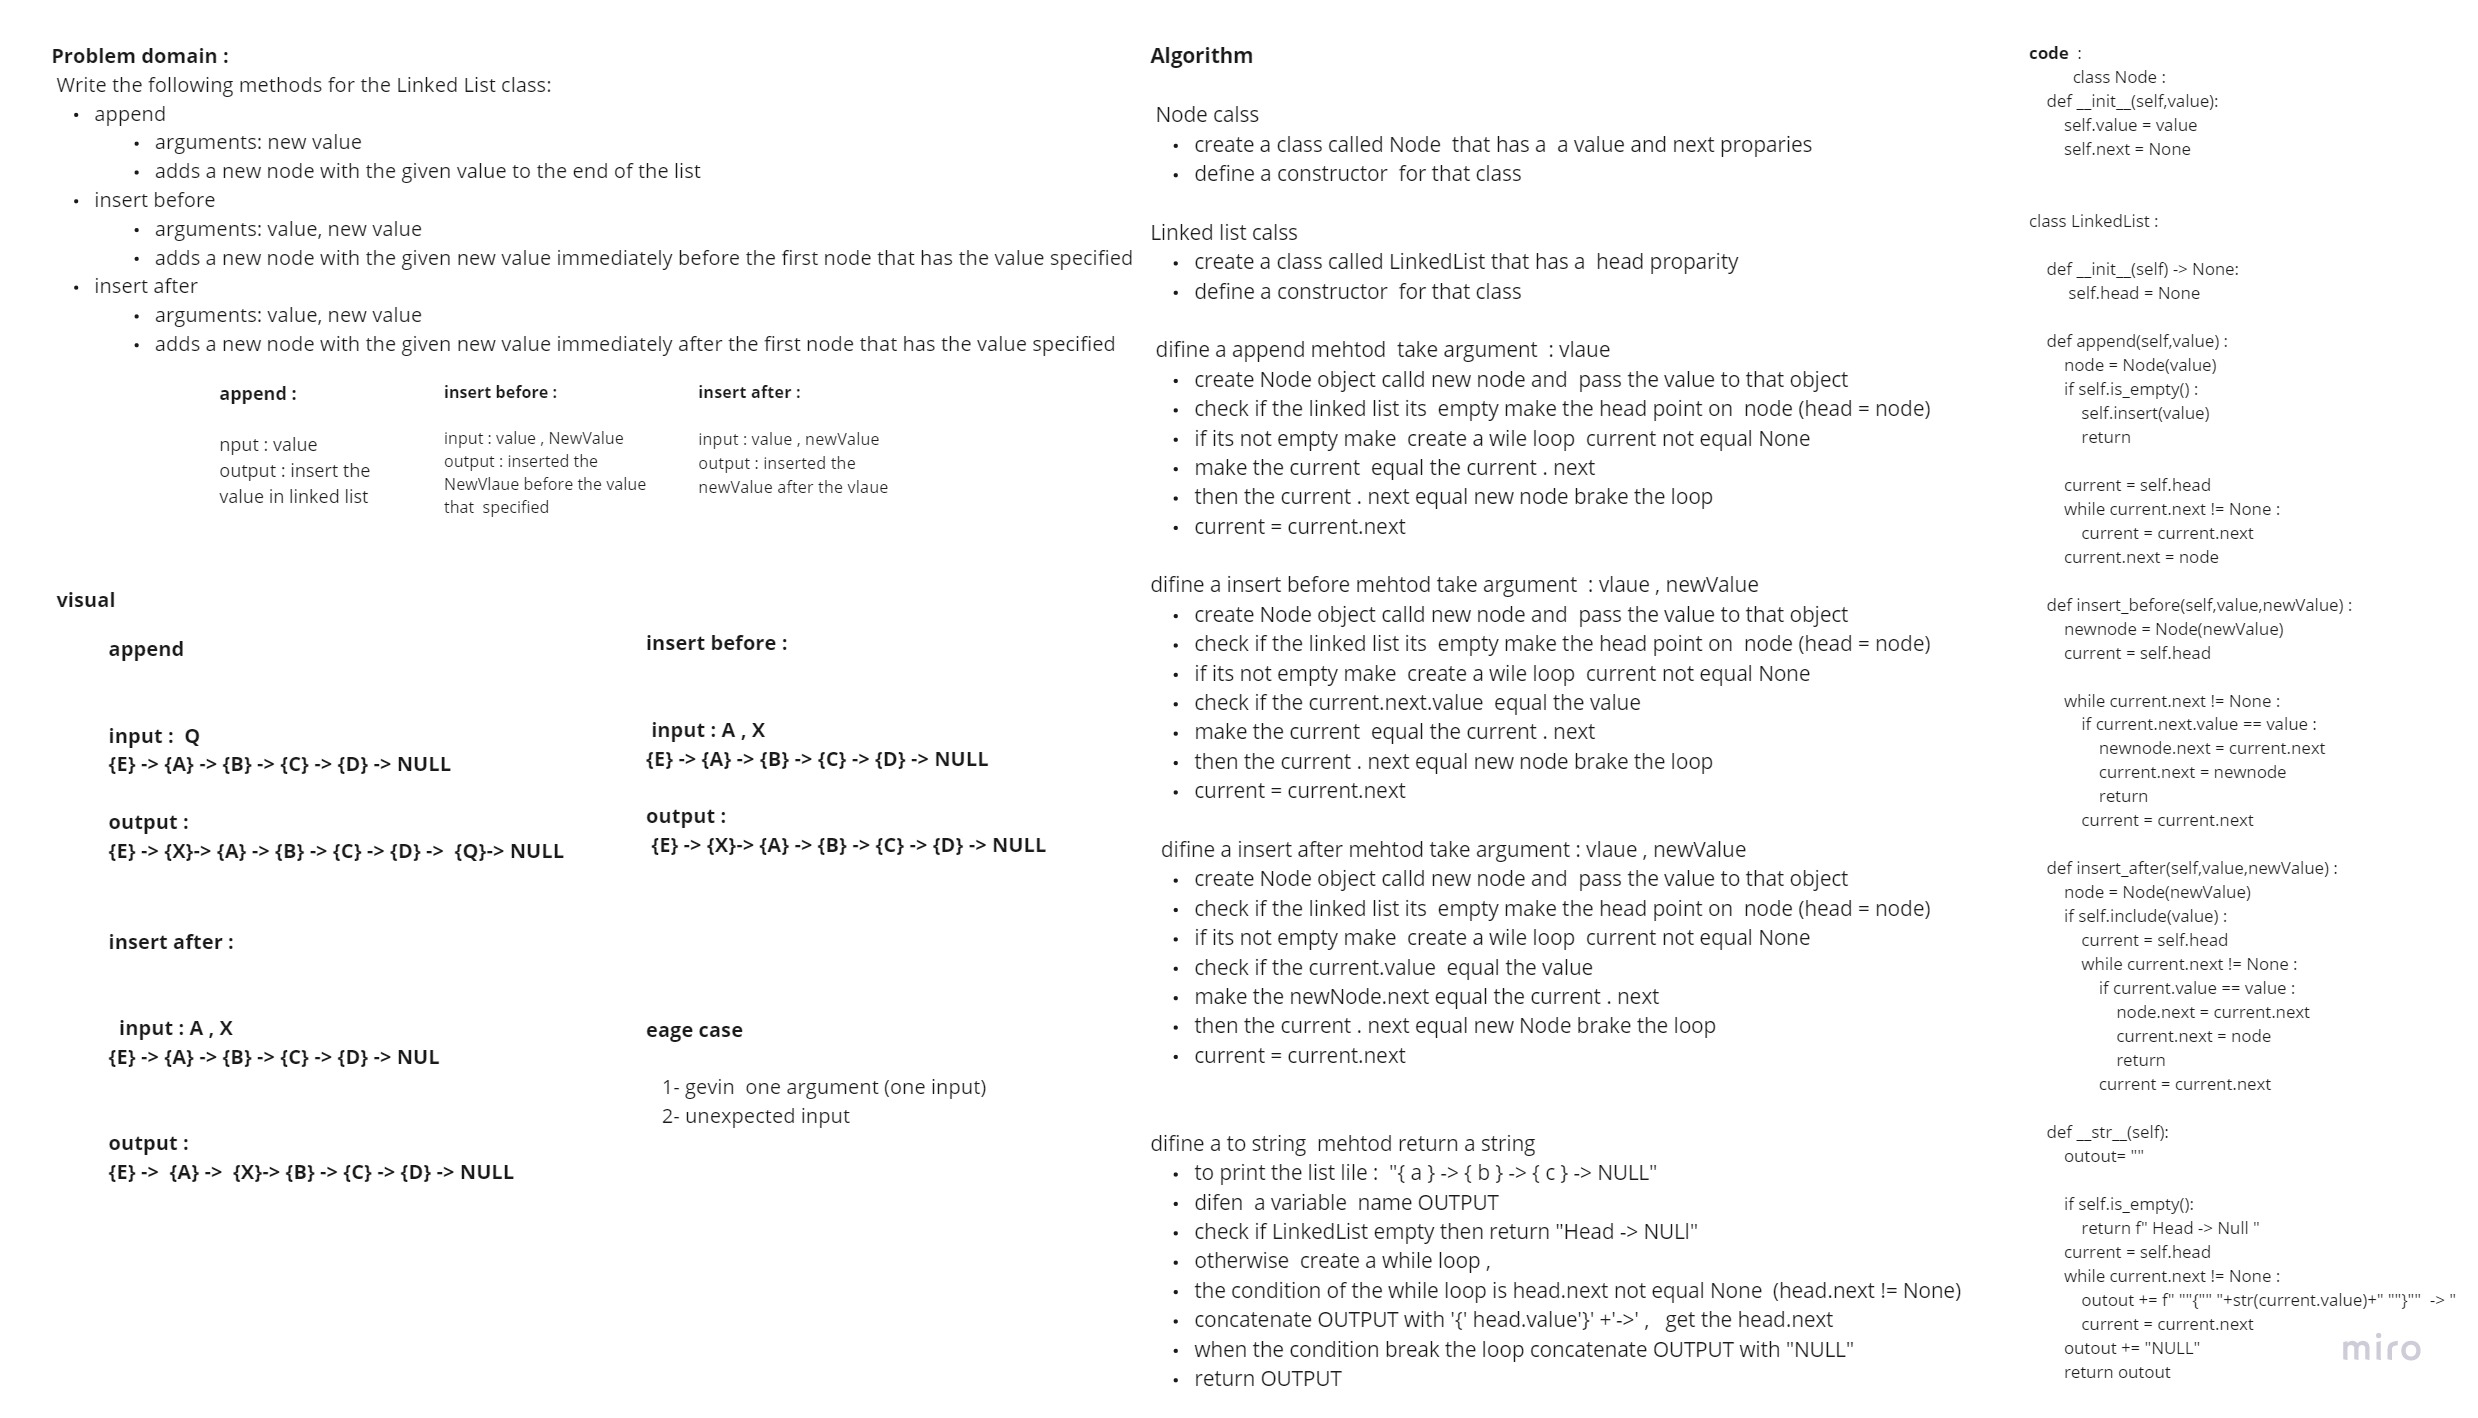
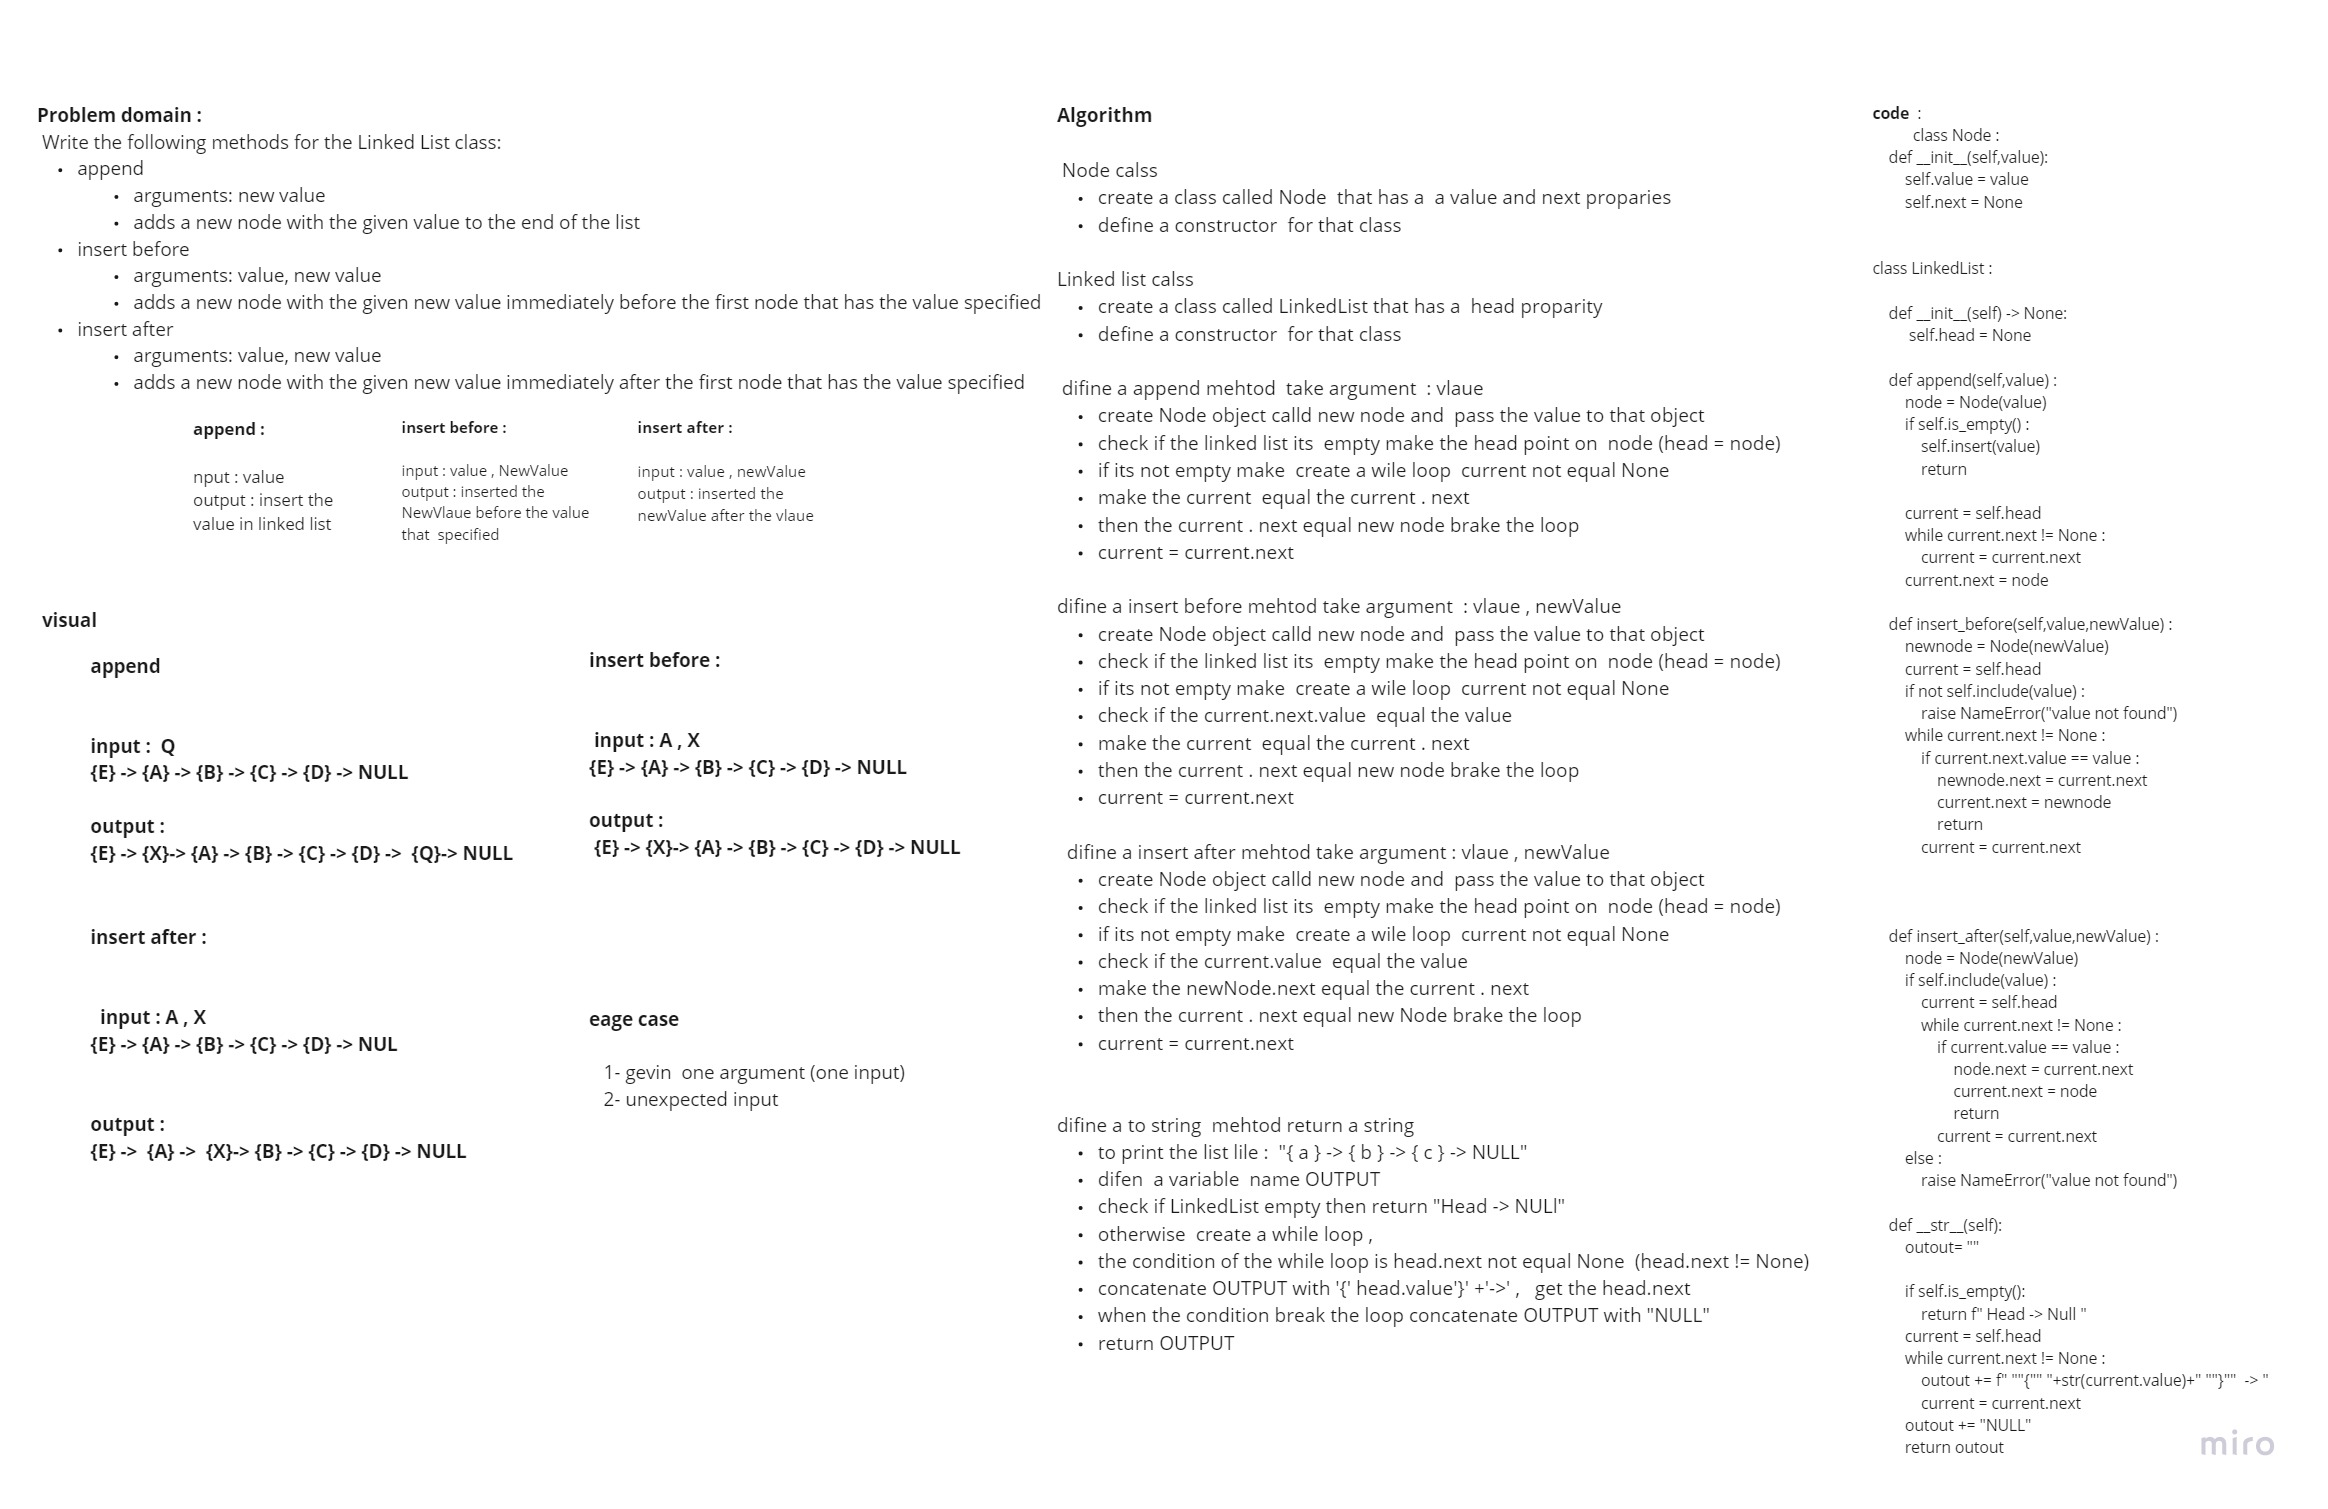
code challenge 6

diff --git a/python/code_challenges/linked_list/linked_list/linked_list.py b/python/code_challenges/linked_list/linked_list/linked_list.py
@@ -96,7 +96,8 @@ class LinkedList :
     def insert_before(self,value,newValue) :
         newnode = Node(newValue)
         current = self.head
-
+        if not self.include(value) :
+            raise NameError("value not found")
         while current.next != None :
             if current.next.value == value :
                 newnode.next = current.next
@@ -116,7 +117,8 @@ class LinkedList :
                     current.next = node
                     return
                 current = current.next
-
+        else :
+            raise NameError("value not found")
 
 
 
@@ -144,7 +146,7 @@ if __name__=="__main__" :
 
     print("======================================== ")
     ll.insert_after(30,4)
-    ll.insert_before(30,4)
+    ll.insert_before(88,4)
     print(ll)
 
 
